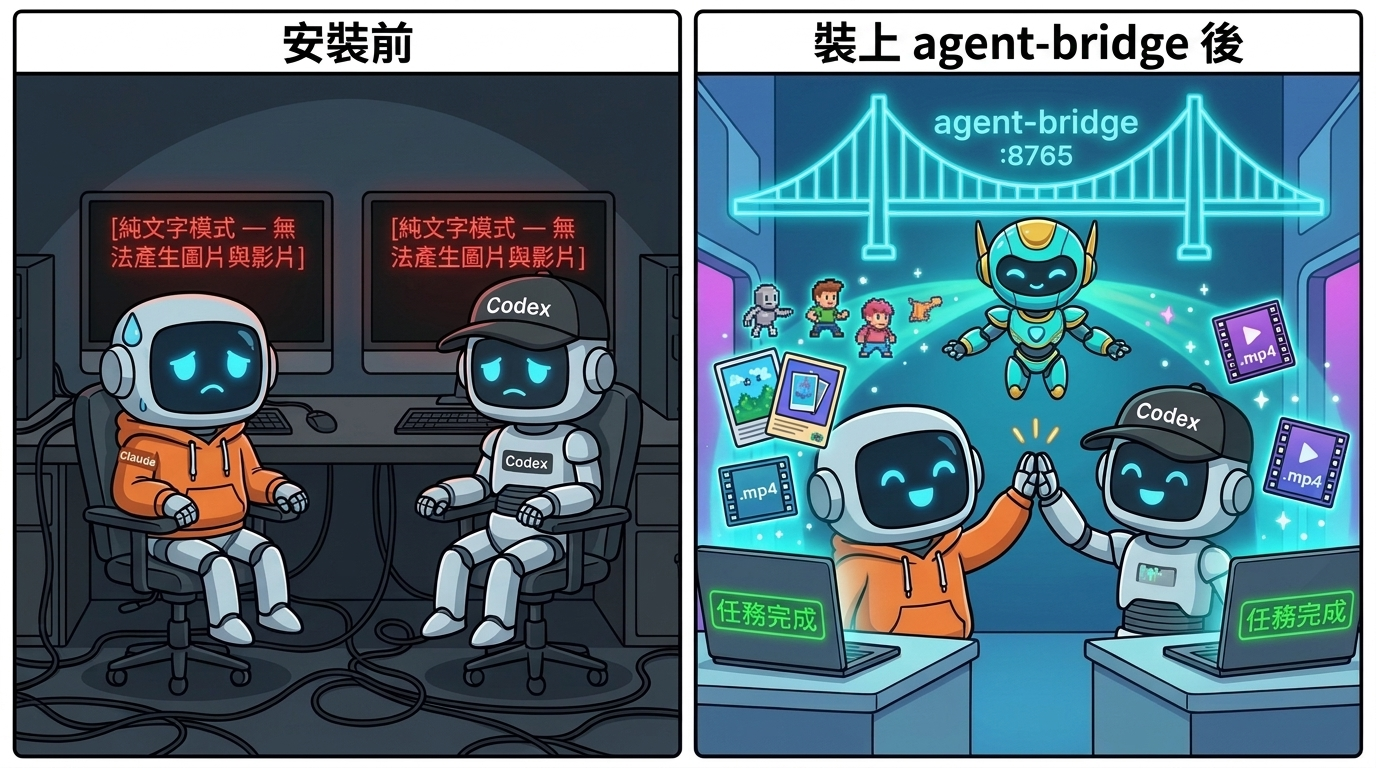
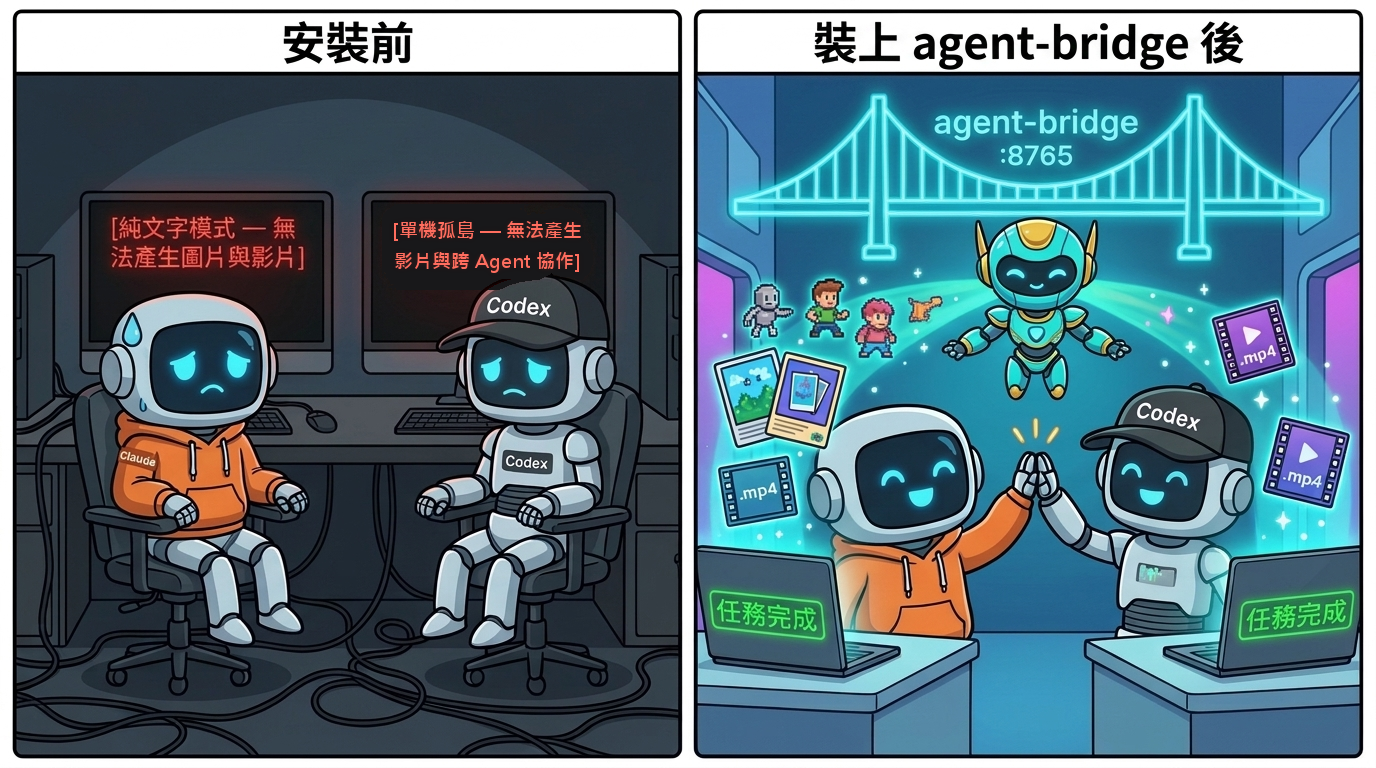
fix(docs): clarify that only Claude cannot generate images/videos while Codex has image gen but lacks video & A2A mesh

Changed region(s): [[0.2812, 0.2812, 0.4375, 0.375]]

diff --git a/src/agent_bridge/registry.py b/src/agent_bridge/registry.py
@@ -104,12 +104,13 @@ class AgentRegistry:
                 backend_mode="codex_cli" if codex_bin else "unavailable",
                 capabilities=[
                     TaskType.CODE_EXECUTION.value,
+                    TaskType.IMAGE_GENERATION.value,
                     TaskType.CODE_REVIEW.value,
                     TaskType.GENERAL_CHAT.value,
                 ],
                 description=(
                     "Specializes in rapid algorithm implementation, sandboxed test execution, "
-                    "CLI batch refactoring, and debugging via `codex exec`."
+                    "image generation, CLI batch refactoring, and debugging via `codex exec`."
                 ),
             ),
             AgentDescriptor(

diff --git a/README.zh-TW.md b/README.zh-TW.md
@@ -1,8 +1,8 @@
 <h1 align="center">agent-bridge 🌉</h1>
 
 <p align="center">
-  <b>讓你的 AI 寫程式助手不再是「多媒體盲人」。</b><br>
-  安裝一次，讓 <code>Codex</code>、<code>Claude Code</code> 與 <code>Antigravity</code> 透過本地匯流排互相發現、直接生圖生影片、雙向協同幹活。
+  <b>解決 Claude 無法生圖生影片的痛點，打破三大 Agent 孤島。</b><br>
+  安裝一次，讓 <code>Claude Code</code>、<code>Codex</code> 與 <code>Antigravity</code> 透過本地匯流排互相發現、直接呼叫生圖生影片、雙向協同幹活。
 </p>
 
 <p align="center">
@@ -17,14 +17,14 @@
   <a href="README.md"><img src="https://img.shields.io/badge/lang-English-green" alt="English"></a>
 </p>
 
-<p align="center"><img src="docs/hero-zh.png" alt="左：安裝前，Claude 與 Codex 只能輸出純文字，螢幕顯示「純文字模式 — 無法產生圖片與影片」。右：裝上 agent-bridge 後，透過 :8765 本地匯流排連接 Antigravity，直接把高畫質圖片與 MP4 影片送進專案資料夾，雙雙顯示「任務完成」。" width="900"></p>
+<p align="center"><img src="docs/hero-zh.png" alt="左：安裝前，Claude 只能輸出純文字，螢幕顯示「Claude：純文字 — 無法產生圖片與影片」，且各個 Agent 彼此隔離。右：裝上 agent-bridge 後，透過 :8765 本地匯流排連接 Antigravity 與 Codex，直接把高畫質圖片與 MP4 影片送進專案資料夾，顯示「任務完成」。" width="900"></p>
 
 ## 使用情境
 
-| 情境 | 在 Codex / Claude / Antigravity 怎麼說 | 為什麼適合 |
+| 情境 | 在 Claude / Codex / Antigravity 怎麼說 | 為什麼適合 |
 |---|---|---|
-| 🎨 **做網頁、做遊戲缺主視覺圖與 Icon** | `「幫我用 agent-bridge 畫一張賽博龐克太空貓主視覺，存到 public/hero.jpg」` | Claude 與 Codex 很會寫前端，但以前只能塞假圖連結；現在直接呼叫 Antigravity 產出真圖並自動寫入程式碼 |
-| 🎬 **Landing Page 或簡報需要動態短片 (`.mp4`)** | `「呼叫 generate_video 幫我產生一段 5 秒的太空貓飛行背景影片」` | 自動喚起 Antigravity 產生高畫質關鍵影格，並透過 `libx264` 合成平滑運鏡的 720p `.mp4` 影片 |
+| 🎨 **Claude 寫網頁/遊戲缺主視覺圖與 Icon** | `「幫我用 agent-bridge 畫一張賽博龐克太空貓主視覺，存到 public/hero.jpg」` | Claude 很會寫前端架構，但本身完全無法生圖生影片（以前只能塞假圖連結）；現在直接呼叫 Antigravity 產出真圖並自動寫入程式碼 |
+| 🎬 **Claude 或 Codex 需要動態短片 (`.mp4`)** | `「呼叫 generate_video 幫我產生一段 5 秒的太空貓飛行背景影片」` | 自動喚起 Antigravity 產生高畫質關鍵影格，並透過 `libx264` 合成平滑運鏡的 720p `.mp4` 影片 |
 | 🔍 **動態查詢誰有什麼能力** | `「查詢目前在線有哪些 Agent 支援 video_generation 或 code_review」` | 呼叫 `discover_agents` 即時查詢常駐註冊表 (`127.0.0.1:8765/agents`) |
 | 🧠 **跨 Agent 架構審查 (Second Opinion)** | *(在 Antigravity 或 Codex 內)* `「請呼叫 Claude 幫我審查 src/daemon.py 的安全性」` | 透過無頭模式 `claude -p` 調度 Claude 進行深度 Code Review 並回傳結果 |
 | ⚡ **沙盒測試與演算法衝刺** | *(在 Claude 或 Antigravity 內)* `「請呼叫 Codex 幫 protocol.py 補齊測試」` | 透過無頭模式 `codex exec` 調度 Codex 快速實作並回傳輸出 |
@@ -155,9 +155,9 @@ agent-bridge-daemon --host 127.0.0.1 --port 8765
 
 ## 為什麼做這個
 
-Claude Code 和 OpenAI Codex 寫程式極強，但只要你的網頁、遊戲或簡報需要一張插圖、Icon 或一段 5 秒的背景動態影片，它們就只能兩手一攤給你一個 `placeholder.png`；與此同時，Google Antigravity 內建了強大的多媒體生成工具（`image-generator`、Imagen、Veo），而且三大工具各自在架構推理、沙盒執行與超大上下文各有專精。
+Claude Code 寫程式與規劃架構極強，但它本身**完全無法產生圖片與影片**——只要你的網頁、遊戲或簡報需要一張插圖、Icon 或一段 5 秒的背景動態影片，Claude 就只能兩手一攤給你一個 `placeholder.png`；與此同時，雖然 Codex 能生圖、Google Antigravity 更有強大的多媒體生成引擎（`image-generator`、Imagen、Veo），但三大工具彼此是隔絕的孤島，無法互相調用。
 
-與其在三個視窗之間手動複製貼上，不如裝一個 `agent-bridge`：**一個薄層 MCP 外掛 ＋ 一個本地常駐 Daemon，讓三大 Agent 直接在協定層雙向對話。**
+與其在三個視窗之間手動複製貼上，不如裝一個 `agent-bridge`：**一個薄層 MCP 外掛 ＋ 一個本地常駐 Daemon，讓三大 Agent 直接在協定層雙向對話、能力互補。**
 
 ## 運作方式
 

diff --git a/README.md b/README.md
@@ -1,8 +1,8 @@
 <h1 align="center">agent-bridge 🌉</h1>
 
 <p align="center">
-  <b>Your coding agents are blind to media. Not anymore.</b><br>
-  Install once. Let <code>Codex</code>, <code>Claude Code</code>, and <code>Antigravity</code> discover each other, generate images &amp; videos, and trade tasks over a local mesh.
+  <b>Claude is blind to media, and your agents live in silos. Not anymore.</b><br>
+  Install once. Let <code>Claude Code</code>, <code>Codex</code>, and <code>Antigravity</code> discover each other, generate images &amp; videos, and trade tasks over a local mesh.
 </p>
 
 <p align="center">
@@ -17,14 +17,14 @@
   <a href="README.zh-TW.md"><img src="https://img.shields.io/badge/lang-繁體中文-green" alt="繁體中文"></a>
 </p>
 
-<p align="center"><img src="docs/hero-en.png" alt="Before: Claude and Codex stuck at text-only terminals unable to generate images or videos. With agent-bridge: A glowing local mesh bridge (:8765) connects Claude, Codex, and Antigravity — beaming AI images and MP4 videos straight into your project folder." width="900"></p>
+<p align="center"><img src="docs/hero-en.png" alt="Before: Claude stuck at a text-only terminal unable to generate images or videos while isolated from other agents. With agent-bridge: A glowing local mesh bridge (:8765) connects Claude, Codex, and Antigravity — beaming AI images and MP4 videos straight into your project folder." width="900"></p>
 
 ## Use cases
 
-| Situation | What you say in Codex / Claude / Antigravity | Why it fits |
+| Situation | What you say in Claude / Codex / Antigravity | Why it fits |
 |---|---|---|
-| 🎨 **Landing page needs real hero art & icons** | `"Generate a cyberpunk space cat hero banner and put it in public/hero.jpg"` | Codex & Claude write great HTML/CSS, but otherwise leave broken `placeholder.png` links. Now they call `generate_image` via Antigravity and wire the real file in |
-| 🎬 **Product demo or game background needs an `.mp4` loop** | `"Generate a 5-second neon nebula background video in outputs/"` | Calls `generate_video` ➔ Antigravity renders a high-res keyframe + synthesizes a smooth 720p `libx264` MP4 motion clip |
+| 🎨 **Claude needs real hero art & icons** | `"Generate a cyberpunk space cat hero banner and put it in public/hero.jpg"` | Claude writes great HTML/CSS, but cannot generate images or videos natively (leaving broken `placeholder.png` links). Now Claude calls `generate_image` via Antigravity and wires the real file in |
+| 🎬 **Claude or Codex needs an `.mp4` video** | `"Generate a 5-second neon nebula background video in outputs/"` | Calls `generate_video` ➔ Antigravity renders a high-res keyframe + synthesizes a smooth 720p `libx264` MP4 motion clip |
 | 🔍 **Dynamic capability discovery** | `"Check which agent in the mesh can generate videos or run code reviews"` | Calls `discover_agents` against the live Registry (`127.0.0.1:8765/agents`) |
 | 🧠 **Second-opinion architecture review** | *(Inside Antigravity or Codex)* `"Ask Claude to review the security of src/daemon.py"` | Routes a `code_review` task to headless `claude -p` and returns the critique |
 | ⚡ **Sandboxed test & algorithm sprint** | *(Inside Claude or Antigravity)* `"Ask Codex to write unit tests for protocol.py"` | Routes a `code_execution` task to headless `codex exec` and returns the result |
@@ -155,7 +155,7 @@ Real end-to-end runs on Windows 11 with **Codex CLI `0.141.0`**, **Claude Code `
 
 ## Why
 
-Claude Code and OpenAI Codex are phenomenal software engineers, but the moment your frontend, game, or slide deck needs an illustration, icon, or short background video, they hit a wall. Meanwhile, Google Antigravity has native multimedia generation (`image-generator`, Imagen, Veo), and each agent has distinct strengths in reasoning, sandboxing, and context window size.
+Claude Code is a phenomenal software architect and coder, but it cannot generate images or videos at all—the moment your frontend, game, or slide deck needs an illustration, icon, or short background video, Claude hits a wall. And while Codex can generate images and Antigravity has native multimedia generation (`image-generator`, Imagen, Veo), all three agents live in isolated silos unable to call each other.
 
 Instead of copy-pasting prompts between three different terminal windows, `agent-bridge` connects them at the protocol layer: **one thin MCP plugin, one local daemon, bidirectional A2A calls.**
 
